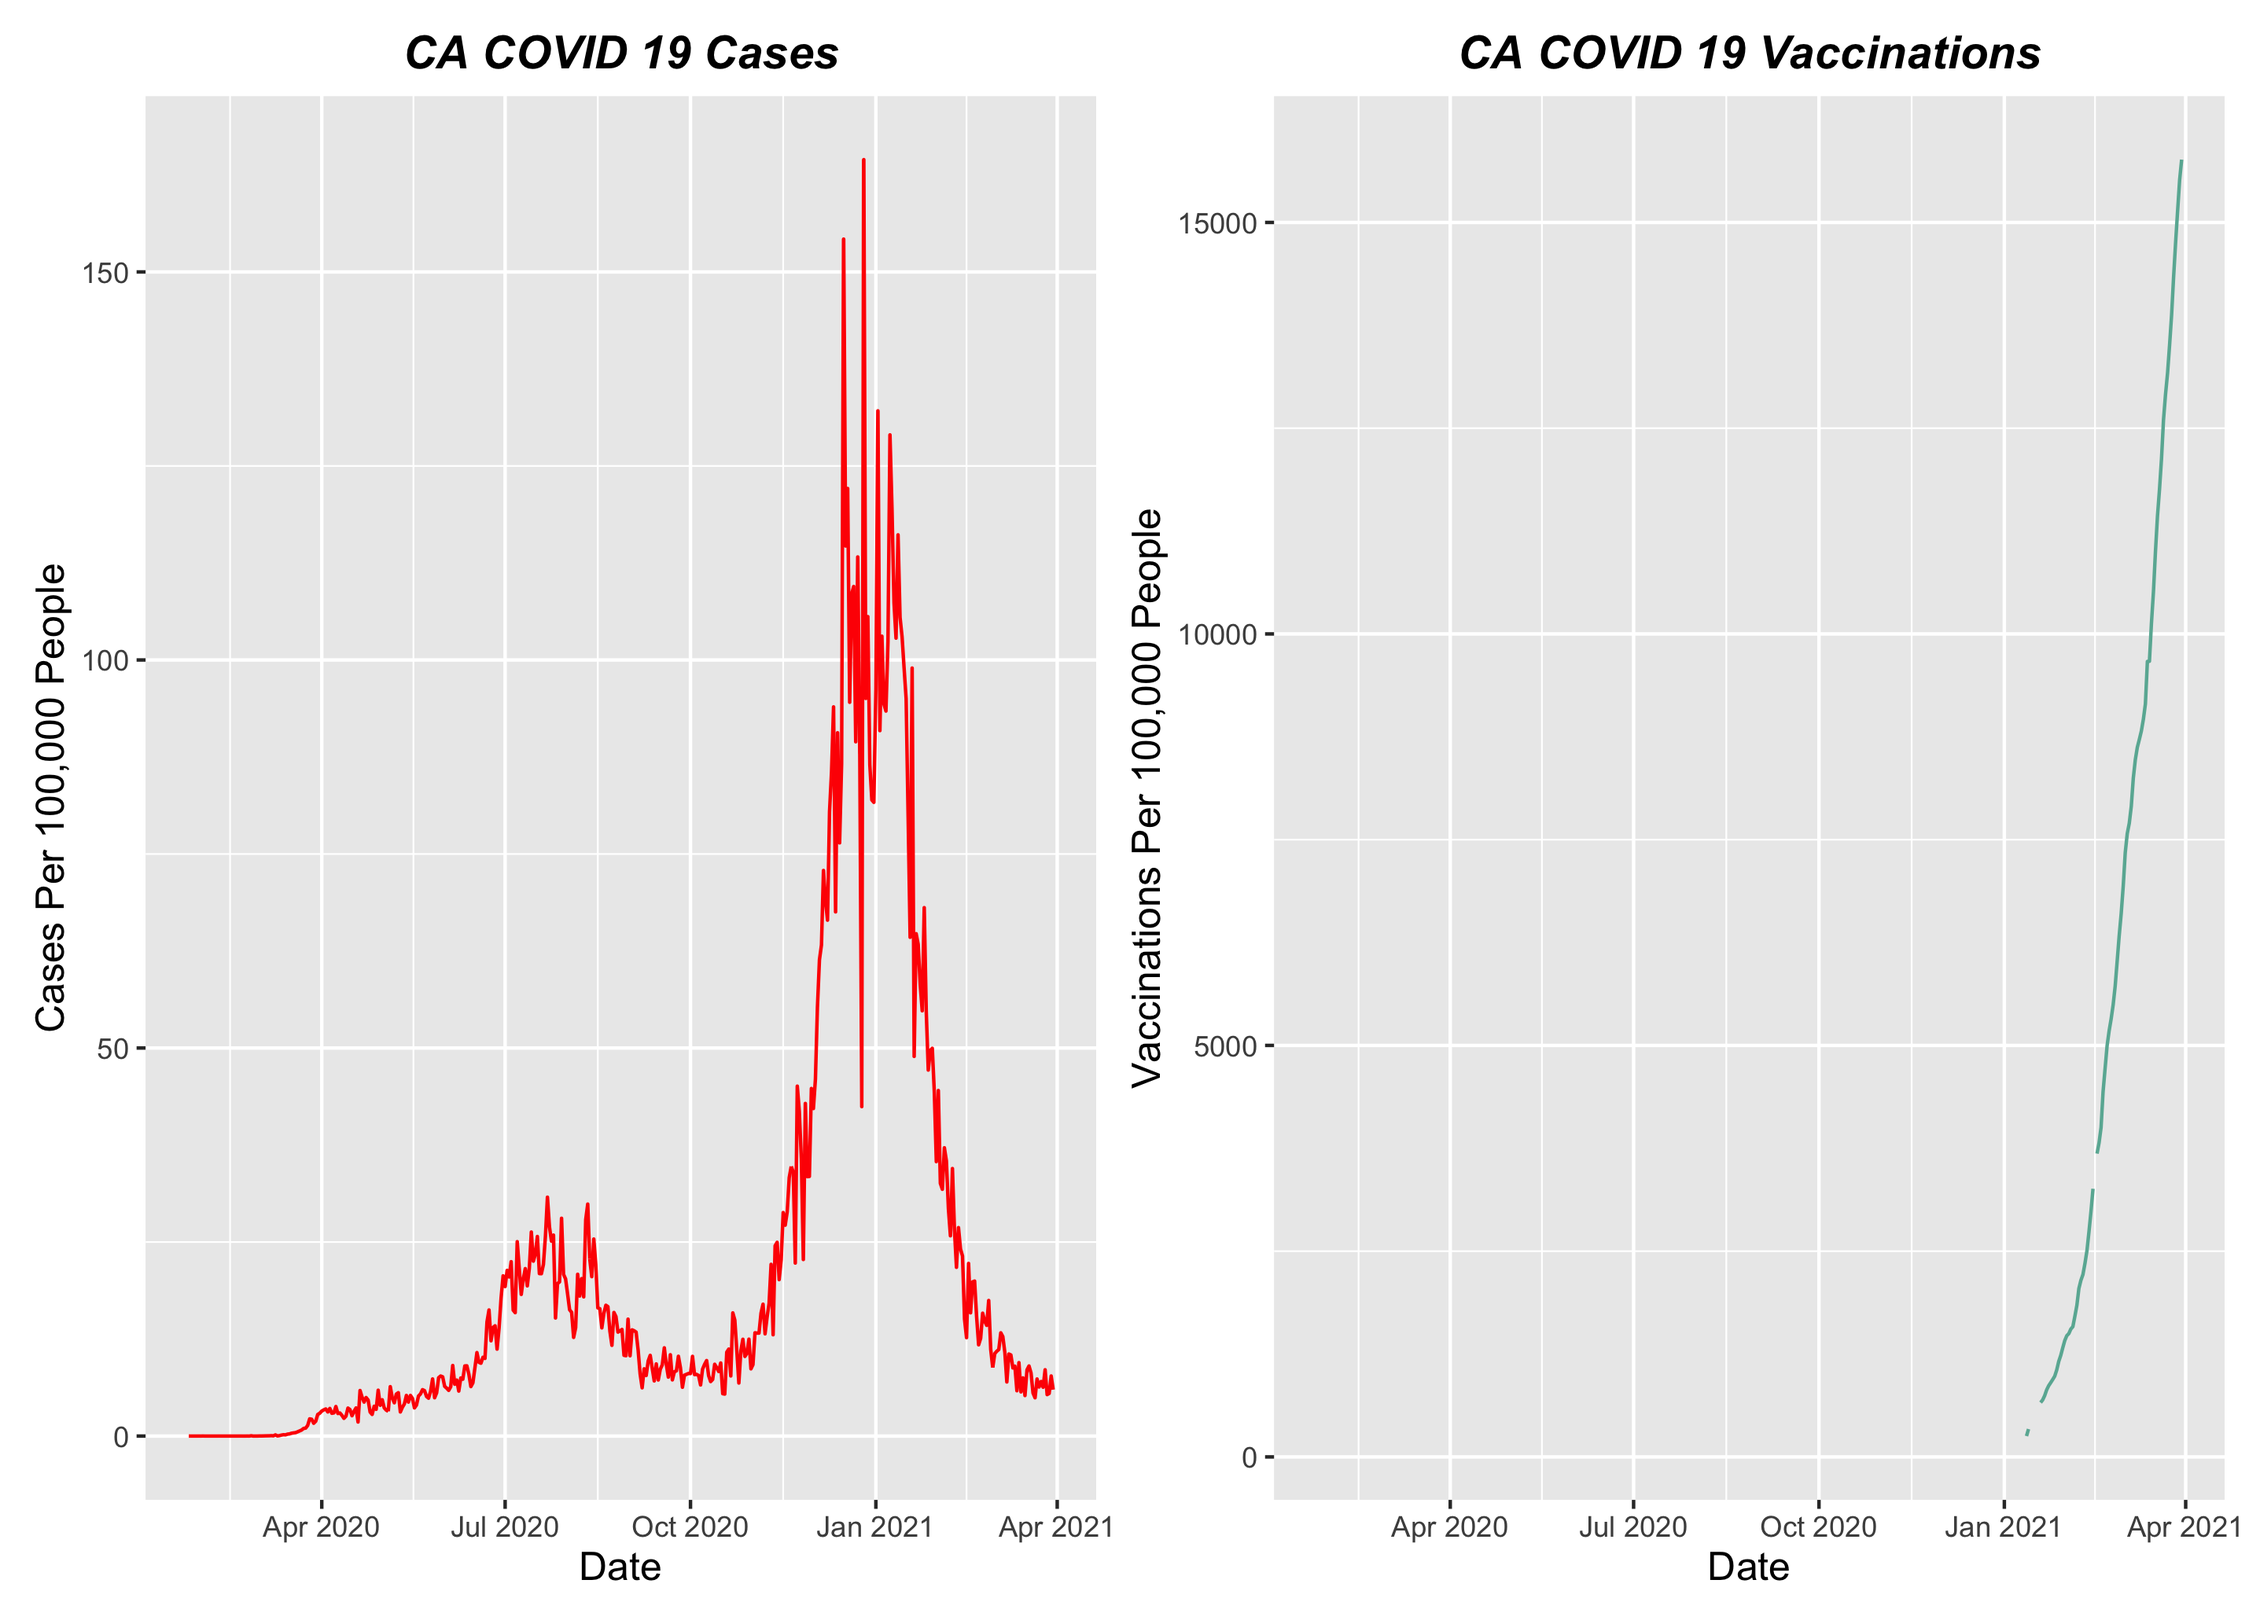
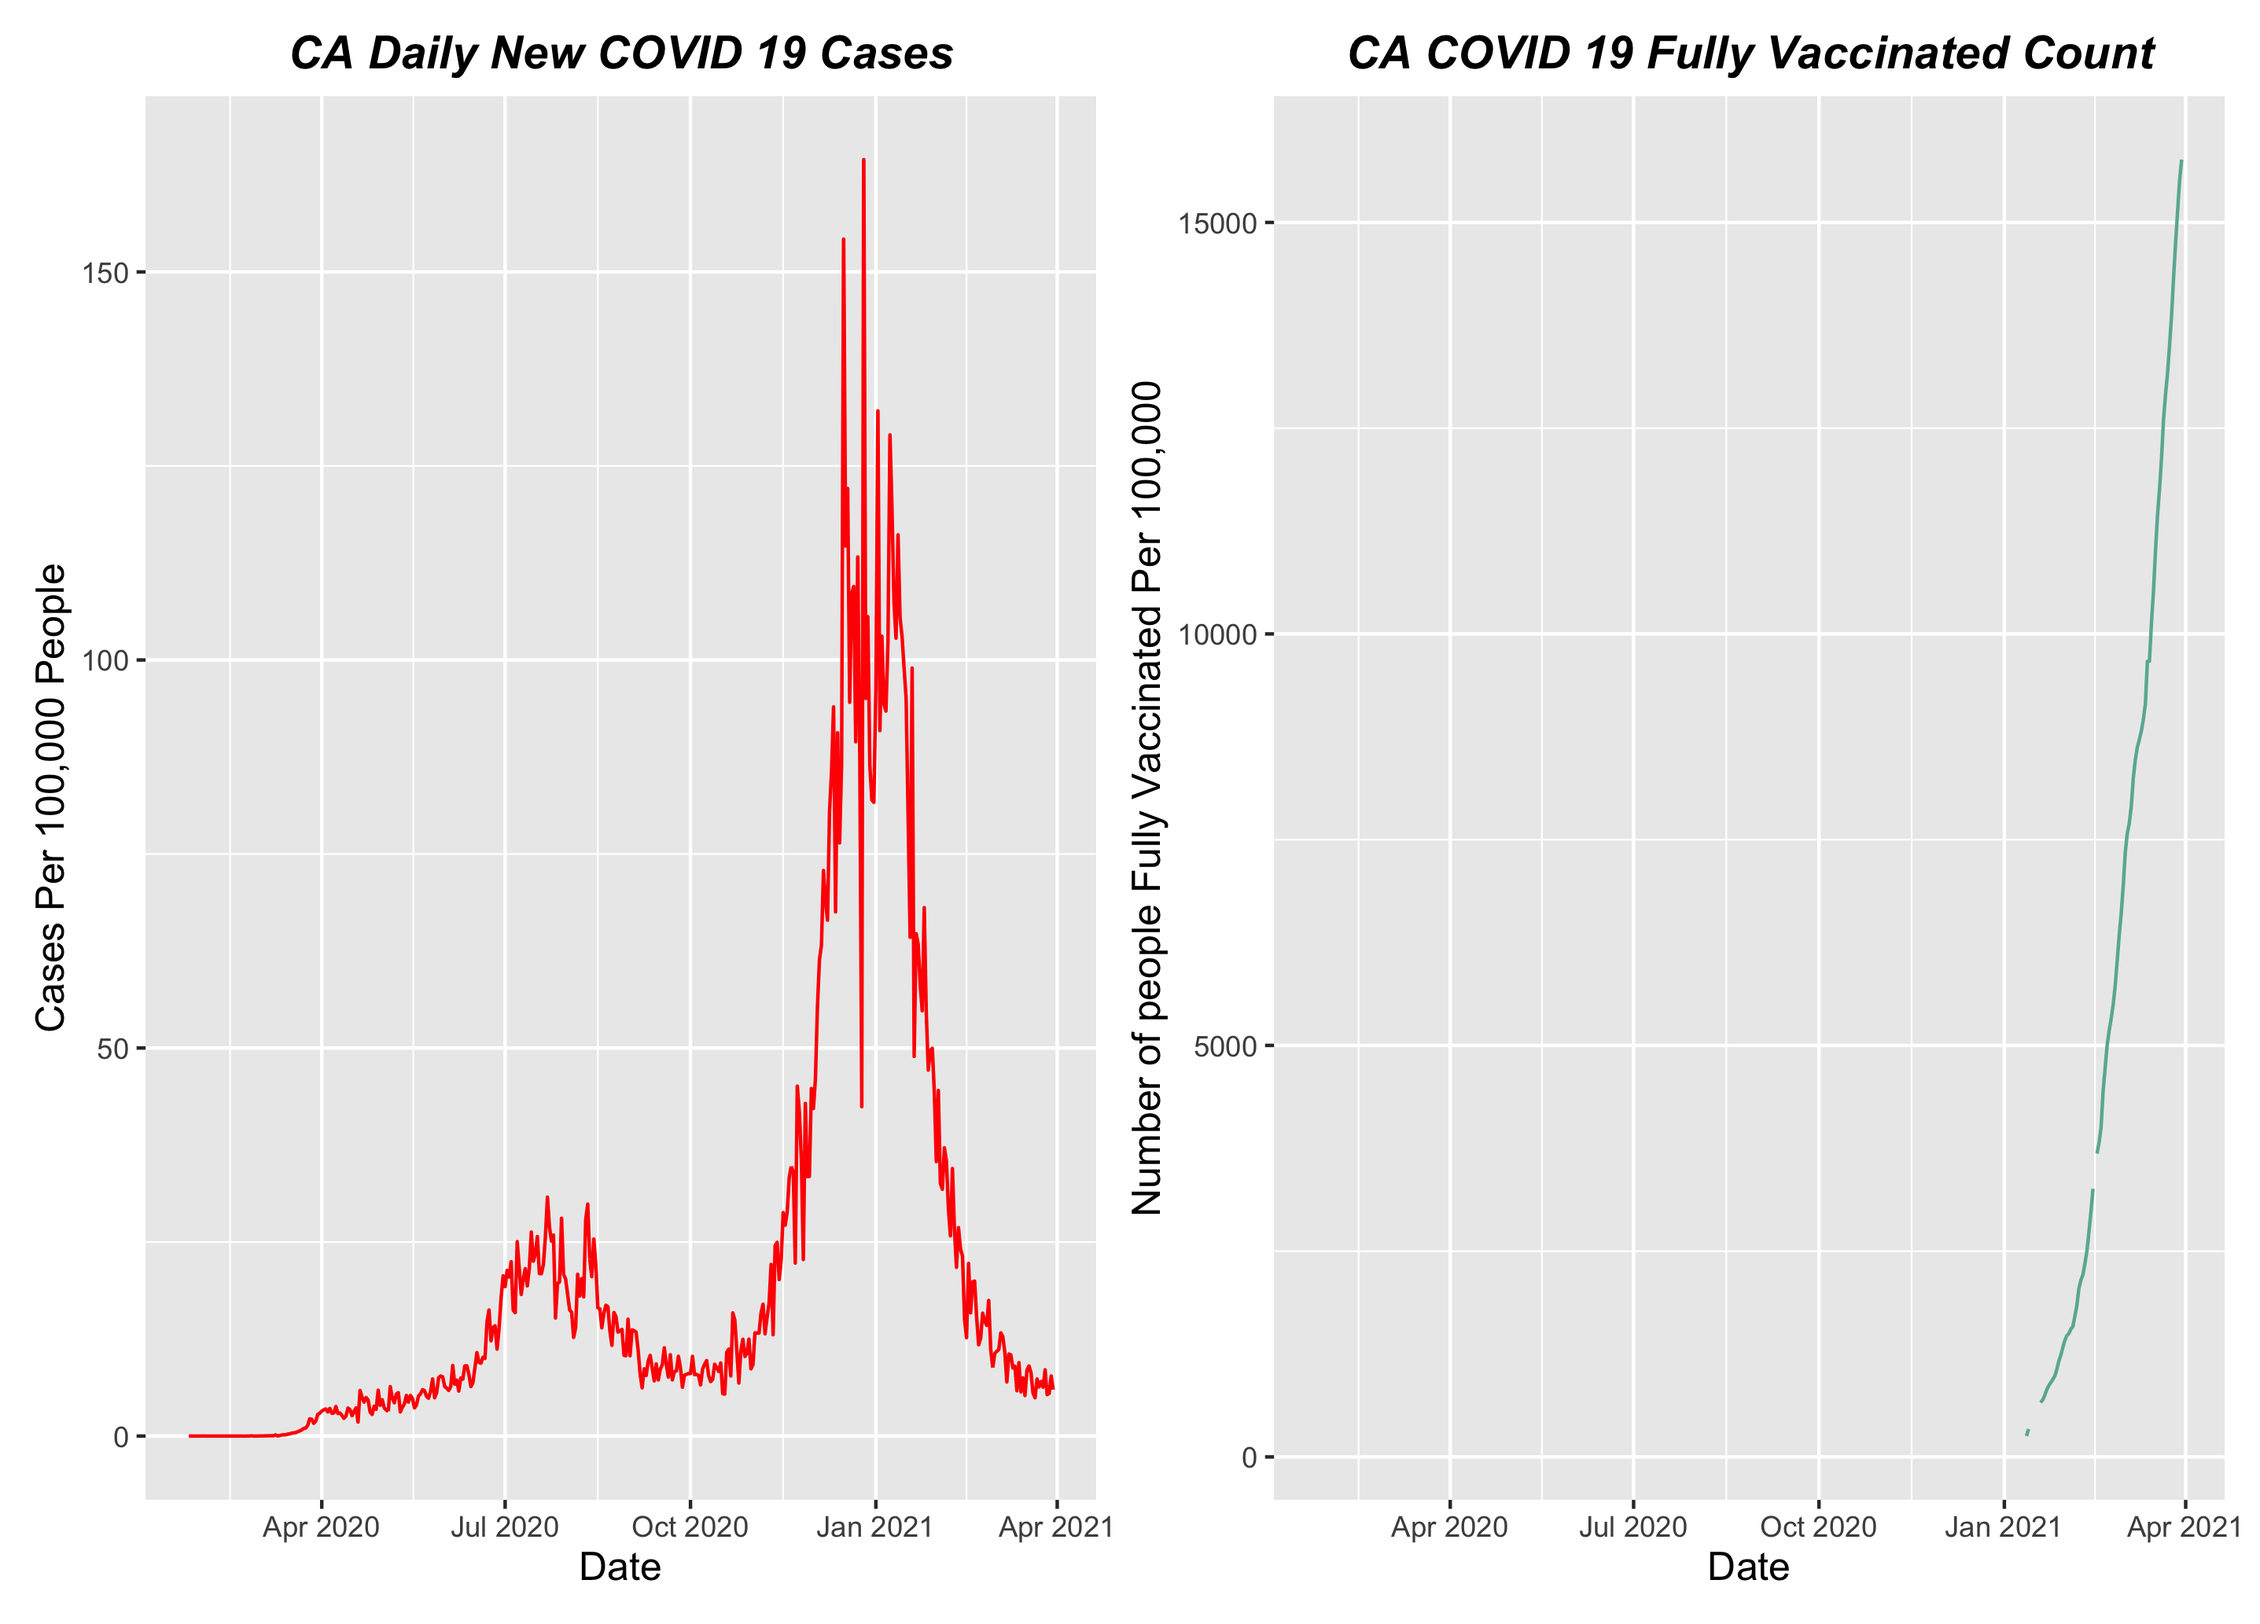
update chart titles and readme

Changed region(s): [[0.5884, 0.0, 0.96, 0.062], [0.1239, 0.0, 0.4335, 0.062], [0.4955, 0.2478, 0.5264, 0.7435]]

diff --git a/README.md b/README.md
@@ -1,12 +1,19 @@
 Data was sourced from New York Times, Our World in Data, and US Census Bureau  
 Date range is 2021-01-13 to 2021-03-30 due to Vaccination data starting on 2021-01-13  
 
-Chart shows total cases and total vaccinations over time  
+Chart shows total cases and total vaccinations over time.   
 ![alt text](https://github.com/johnrcarty/covid_analysis/blob/master/casesAndVaccinations.png?raw=true)  
 
 Chart shows a regression analysis on Daily New Cases compared to Daily New Vaccinations.  
 ![alt text](https://github.com/johnrcarty/covid_analysis/blob/master/newCasesNewVaccine_regression.png?raw=true)  
 
+Comparing 9 States Daily New Cases per 100,000 people over 1 year.  
+![alt text](https://github.com/johnrcarty/covid_analysis/blob/master/9_StateDailyNewCases.png?raw=true)  
+
+Total Cases and Total Fully Vaccinated per 100,000 on the left axis.  
+Daily New Cases per 100,000 on the right axis.  
+Legend needs to be cleaned.  
+![alt text](https://github.com/johnrcarty/covid_analysis/blob/master/totalCasesAndVaccinations.png?raw=true)
 
 
 Sources  
